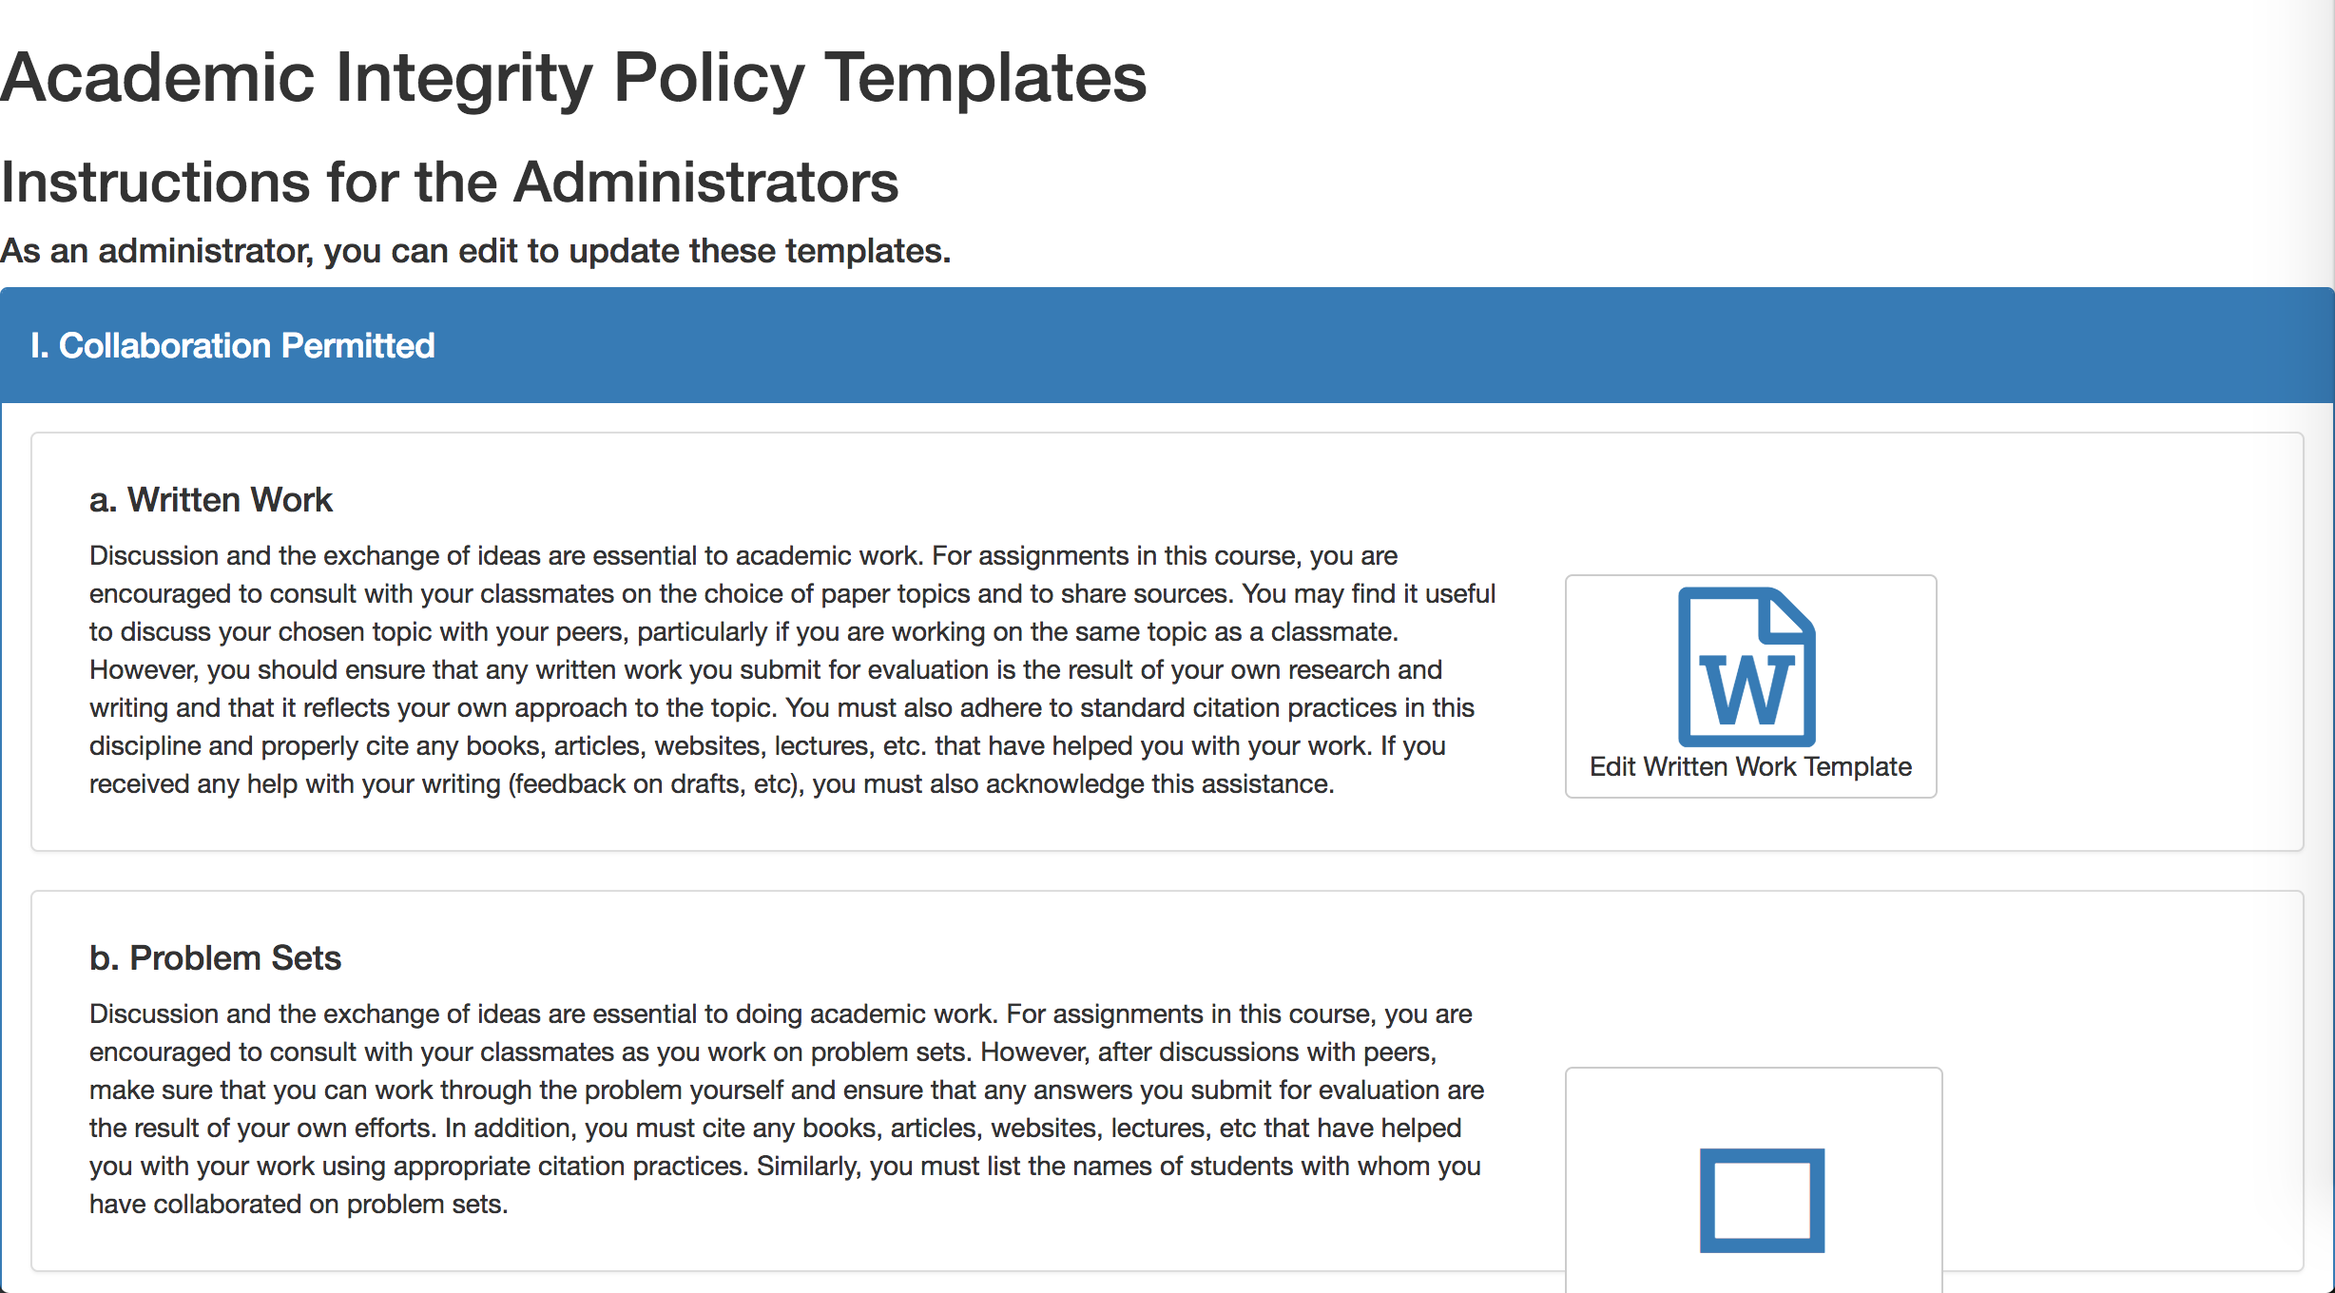
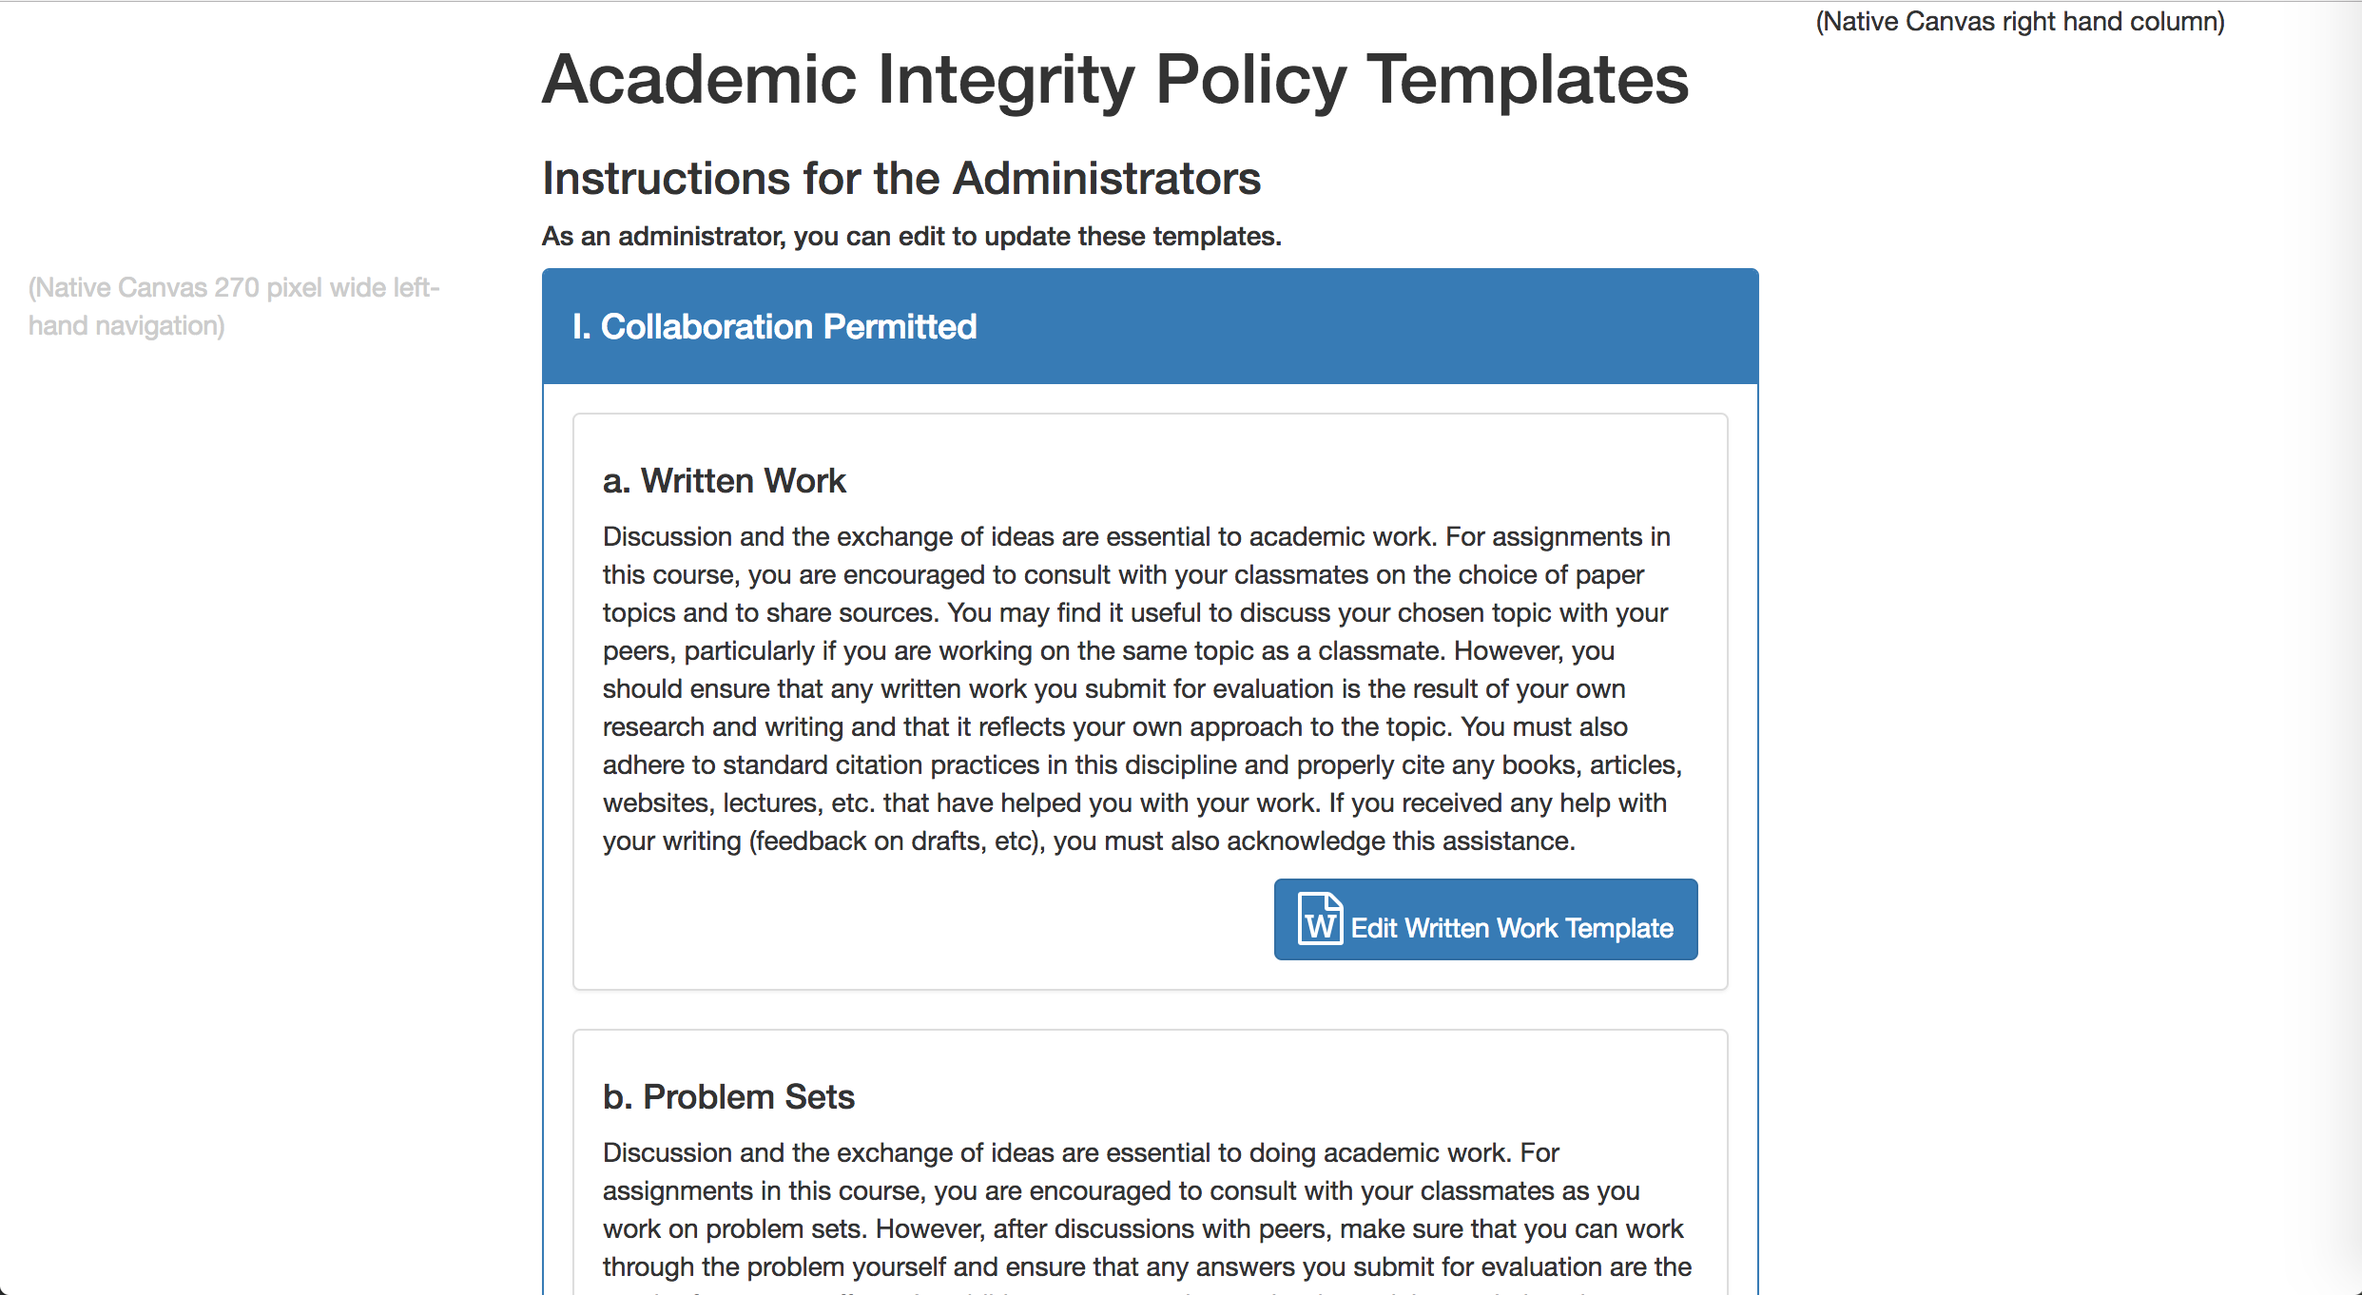
Add files via upload
AcademicIntegrityTemplates - screen capture and UI code of proposed implementation

diff --git a/ui/AcademicIntegrityTemplates/index.html b/ui/AcademicIntegrityTemplates/index.html
@@ -1,5 +1,7 @@
-<!-- HTML and styling for the administrator view of the policy templates. The instructor view is pretty similar so we can just work with this view. I have included
-some comments as 'Notes'.-->
+<!--There are 5 IUI comments in this commit-->
+
+
+
 
 
 <html>
@@ -7,7 +9,7 @@ some comments as 'Notes'.-->
         <title>Academic Integrity Policy Templates</title>
 
 
-<!-- Note 1: This stylesheet seems to come from a local directory called /assets/ on your local environment. I am not sure where it is used in this html file given the page seems to render just fine (except for that PowerPoint icon that was missing and the displacement of the icons :) ). -->
+
         <link data-turbolinks-track="true" href="/assets/application-f2426e026c85d83f4d4ec5be1c26ee81.css" media="all" rel="stylesheet">
 
 
@@ -24,7 +26,7 @@ some comments as 'Notes'.-->
 
 
 
-<!-- Note 2: Related to Note 1 above, this script seems to come from a local directory, i.e. /assets/. Perhaps you could upload it to the Github repo? -->
+
         <script data-turbolinks-track="true" src="/assets/application-2671af1f4fe139755faa78265733f653.js"></script>
 
 
@@ -44,15 +46,22 @@ some comments as 'Notes'.-->
     </head>
     <body>
 
+<!--UI comment #1 - Horizontal space occupied by the Canvas left nav-->
+
+        <div class="col-sm-2" style="width: 270px">
+            <p style="margin-top: 10em; color: #ccc">(Native Canvas 270 pixel wide left-hand navigation)</p>
+        </div>
+
+        <div class="col-sm-7" style="max-width: 670px">
         <h1>Academic Integrity Policy Templates</h1>
 
-        <h2>Instructions for the Administrators</h2>
+        <h3>Instructions for the Administrators</h3>
 
         <div class="highlighted">
 
-            <h4>
+            <h5>
               As an administrator, you can edit to update these templates.
-            </h4>
+            </h5>
         </div>
 
         <div class="panel panel-primary">
@@ -64,131 +73,47 @@ some comments as 'Notes'.-->
           <div class="panel-body">
               <div class="panel panel-default">
                 <div class="panel-body">
-                    <div class="col-sm-8">
-                        <h4>a. Written Work</h4>
+                    <h4>a. Written Work </h4>
+
+<!--UI comment #2 - Changing the large icon to a Bootstrap button and repositioning for responsiveness-->
+                    <div>
                         <p>
                             Discussion and the exchange of ideas are essential to academic work. For assignments in this course, you are encouraged to consult with your classmates on the choice of paper topics and to share sources. You may find it useful to discuss your chosen topic with your peers, particularly if you are working on the same topic as a classmate. However, you should ensure that any written work you submit for evaluation is the result of your own research and writing and that it reflects your own approach to the topic. You must also adhere to standard citation practices in this discipline and properly cite any books, articles, websites, lectures, etc. that have helped you with your work. If you received any help with your writing (feedback on drafts, etc), you must also acknowledge this assistance.
                         </p>
-                    </div>
-
-<!-- Note 3: Instead of implementing the link for "Edit Written Work Template" as a a submittable form, I implemented it as a button wrapped in an <a> tag. Kindly see Note 4. It made integration into the rest of the project much easier. Maybe this is why the icons got displaced downwards? Either way, is it possible to work with my replacement as laid out in Note 4? -->
-
-
-
-  <!-- This is the code you implemented. See my replacement in Note 4 below. 
-
-                    <div class="col-sm-4">
-                        <form method="get" action="https://lti.acts.cloud.huit.harvard.edu/policies/new" accept-charset="UTF-8">
-                            <div style="display:none">
-                                <input name="utf8" type="hidden" value="✓">
-                            </div>
-                            <input id="custom" name="custom" type="hidden" value="1">
-                            <div style="position: relative">
-                                <span class="icon-input-btn"
-                                      style="position: absolute; top: 50%; transform: translateY(50%);">
-
-                                    <button value="Edit Written Work Template" class="btn btn-default btn-md" type="submit" name="commit">
-                                        <i class="fa fa-file-word-o" style="font-size: 6em; color: rgb(51, 122, 183);"></i>
-                                        <br>
-                                        Edit Written Work Template</button>
-                                </span>
-                            </div>
-                        </form>
-                    </div>
-
-
-                  -->
-
-
-
-
-<!-- End of Note 3 -->
-
-
-
-
-
-
-<!-- Note 4: The "Edit Written Work Template" link implemented as an <a> tag that wraps around a simple button for easy integration. Don't worry about how the data is sent to the server once a user clicks the button. I took care of that with Django. Django can handle it via the 'href' attribute so no worries. -->
-
-                    <a href="link/to/text/editor">
-                      <div class="col-sm-4">
-                          <div style="position: relative">
-                              <span class="icon-input-btn" style="position: absolute; top: 50%; transform: translateY(50%);">
-                                  <button value="Choose Written Work Template" class="btn btn-default btn-md" type="submit" name="commit">
-                                      <i class="fa fa-file-word-o" style="font-size: 6em; color: rgb(51, 122, 183);"></i>
-                                      <br>
-                                      Edit Written Work Template
+                        <p>
+                            <a href="link/to/text/editor">
+                                <span class="icon-input-btn pull-right">
+                                  <button value="Choose Written Work Template" class="btn btn-primary btn-md" type="submit" name="commit">
+                                    <i class="fa fa-file-word-o" style="font-size: 2em; color:#fff;"></i>
+                                    Edit Written Work Template
                                   </button>
-                              </span>
-                          </div>
-                      </div>
-                  </a>
-
-<!-- End of Note 4 -->
-
-
-
-
-
-
-
+                                </span>
+                            </a>
+                        </p>
+                    </div>
                 </div>
               </div>
+
               <div class="panel panel-default">
                 <div class="panel-body">
-                    <div class="col-sm-8">
-                        <h4>b. Problem Sets</h4>
+                    <h4>b. Problem Sets</h4>
+
+<!--UI comment #3 - Changing the large icon to a Bootstrap button and repositioning for responsiveness-->
+                    <div>
                         <p>
                             Discussion and the exchange of ideas are essential to doing academic work. For assignments in this course, you are encouraged to consult with your classmates as you work on problem sets. However, after discussions with peers, make sure that you can work through the problem yourself and ensure that any answers you submit for evaluation are the result of your own efforts. In addition, you must cite any books, articles, websites, lectures, etc that have helped you with your work using appropriate citation practices. Similarly, you must list the names of students with whom you have collaborated on problem sets.
                         </p>
-                    </div>
-
-
-
-
-
-<!-- Note 5: Same as Note 3 above. I replaced this with the code in Note 6.
-
-  
-                    <div class="col-sm-4">
-                        <form method="get" action="https://lti.acts.cloud.huit.harvard.edu/policies/new" accept-charset="UTF-8"><div style="display:none"><input name="utf8" type="hidden" value="✓"></div>
-                            <input id="custom" name="custom" type="hidden" value="1">
-                            <div style="position: relative">
-                                <span class="icon-input-btn"
-                                      style="position: absolute; top: 50%; transform: translateY(50%);">
-                                    <button value="Edit Problem Sets Template" class="btn btn-default btn-md" type="submit" name="commit">
-                                        <i class="fa-file-powerpoint-o" style="font-size: 6em; color: rgb(51, 122, 183);"></i>
-                                        <br>
-                                        Edit Problem Sets Template</button>
+                        <p>
+                            <a href="/link/to/text/editor">
+                                <span class="icon-input-btn pull-right">
+                                  <button value="Choose Problem Sets Template" class="btn btn-primary btn-md" type="submit" name="commit">
+                                    <i class="fa fa-file-powerpoint-o" style="font-size: 2em; color:#fff;"></i>
+                                    Edit Problem Sets Template
+                                  </button>
                                 </span>
-                            </div>
-                        </form>
+                            </a>
+                        </p>
                     </div>
-
-
-End of note 5 -->
-
-
-<!-- Note 6: "Edit Problem Sets Template" link as a clickable button wrapped around an <a> tag, instead of a submittable form.-->
-
-                    <a href="/link/to/text/editor">
-                        <div class="col-sm-4">
-                            <div style="position: relative">
-                                <span class="icon-input-btn" style="position: absolute; top: 50%; transform: translateY(50%);">
-                                    <button value="Choose Problem Sets Template" class="btn btn-default btn-md" type="submit" name="commit">
-                                        <i class="fa-file-powerpoint-o" style="font-size: 6em; color: rgb(51, 122, 183);"></i>
-                                        <br>
-                                        Edit Problem Sets Template
-                                    </button>
-                                </span>
-                            </div>
-                        </div>
-                    </a>
-
-<!-- End of Note 6 -->
-
-
                 </div>
               </div>
           </div>
@@ -201,67 +126,42 @@ End of note 5 -->
               </h4>
           </div>
           <div class="panel-body">
+
               <div class="panel panel-default">
                 <div class="panel-body">
-                    <div class="col-sm-8">
+
+<!--UI comment #4 - Changing the large icon to a Bootstrap button and repositioning for responsiveness-->
+                    <div>
                         <p>
                             Students should be aware that in this course collaboration of any sort on any work submitted for formal evaluation is not permitted. This means that you may not discuss your problem sets, paper assignments, exams, or any other assignments with other students. All work should be entirely your own and must use appropriate citation practices to acknowledge the use of books, articles, websites, lectures, discussions, etc., that you have consulted to complete your assignments.
                         </p>
-                    </div>
-
-
-<!-- Note 7: Same as Note 3 above. I replaced this with the code in Note 8.
-
-                    <div class="col-sm-4">
-                        <form method="get" action="https://lti.acts.cloud.huit.harvard.edu/policies/new" accept-charset="UTF-8">
-                            <div style="display:none"><input name="utf8" type="hidden" value="✓"></div>
-                            <input id="custom" name="custom" type="hidden" value="3">
-                            <div style="position: relative">
-                                <span class="icon-input-btn"
-                                      style="position: absolute; top: 50%; transform: translateY(0%);">
-                                    <button value="Edit Collaboration Prohibited Template" class="btn btn-default btn-md" type="submit" name="commit">
-                                        <i class="fa fa-file-word-o" style="font-size: 6em; color: rgb(51, 122, 183);"></i>
-                                        <br>
-                                        Edit
-                                        <br>
-                                        Collaboration Prohibited Template</button>
+                        <p>
+                            <a href="/link/to/text/editor">
+                                <span class="icon-input-btn pull-right">
+                                  <button value="Choose Collaboration Prohibited Template" class="btn btn-primary btn-md" type="submit" name="commit">
+                                        <span class="fa-layers fa-fw">
+                                            <i class="fa fa-file-o" style="font-size: 2em; color:#fff;"></i>
+                                            <i class="fa fa-times" style="position: absolute; font-size: 1em; color:#fff; margin-left: -1.50em; margin-top: .70em;"></i>
+                                        </span>
+                                    Collaboration Prohibited
+                                  </button>
                                 </span>
-                            </div>
-                        </form>
+                            </a>
+                        </p>
                     </div>
-
-End of Note 7 -->
-
-
-<!-- Note 8: "Edit Collaboration Prohibited Template" link as a clickable button wrapped around an <a> tag, instead of a submittable form.-->
-                    <a href="href="/link/to/text/editor">
-                        <div class="col-sm-4">
-                            <div style="position: relative">
-                                <span class="icon-input-btn"
-                                      style="position: absolute; top: 50%; transform: translateY(0%);">
-                                    <button value="Choose Collaboration Prohibited Template" class="btn btn-default btn-md" type="submit" name="commit">
-                                        <i class="fa fa-file-word-o" style="font-size: 6em; color: rgb(51, 122, 183);"></i>
-                                        <br>
-                                        Edit
-                                        <br>
-                                        Collaboration Prohibited Template</button>
-                                </span>
-                            </div>
-                        </div>
-                    </a>
-
-<!-- End of Note 8 -->
-
-
                 </div>
               </div>
           </div>
         </div>
+    </div>
+
+<!--UI comment #5 - Horizontal space occupied by the Canvas right nav-->
+    <div class="col-sm-1" style="width: 270px">(Native Canvas right hand column)</div>
 
 
-            <script src="https://ajax.googleapis.com/ajax/libs/jquery/3.2.1/jquery.min.js"></script>
-            <script src="https://maxcdn.bootstrapcdn.com/bootstrap/3.3.7/js/bootstrap.min.js"></script>
-            <script src="https://maxcdn.bootstrapcdn.com/bootstrap/3.3.7/js/docs.min.js"></script>
+    <script src="https://ajax.googleapis.com/ajax/libs/jquery/3.2.1/jquery.min.js"></script>
+    <script src="https://maxcdn.bootstrapcdn.com/bootstrap/3.3.7/js/bootstrap.min.js"></script>
+    <script src="https://maxcdn.bootstrapcdn.com/bootstrap/3.3.7/js/docs.min.js"></script>
 
     </body>
 </html>
